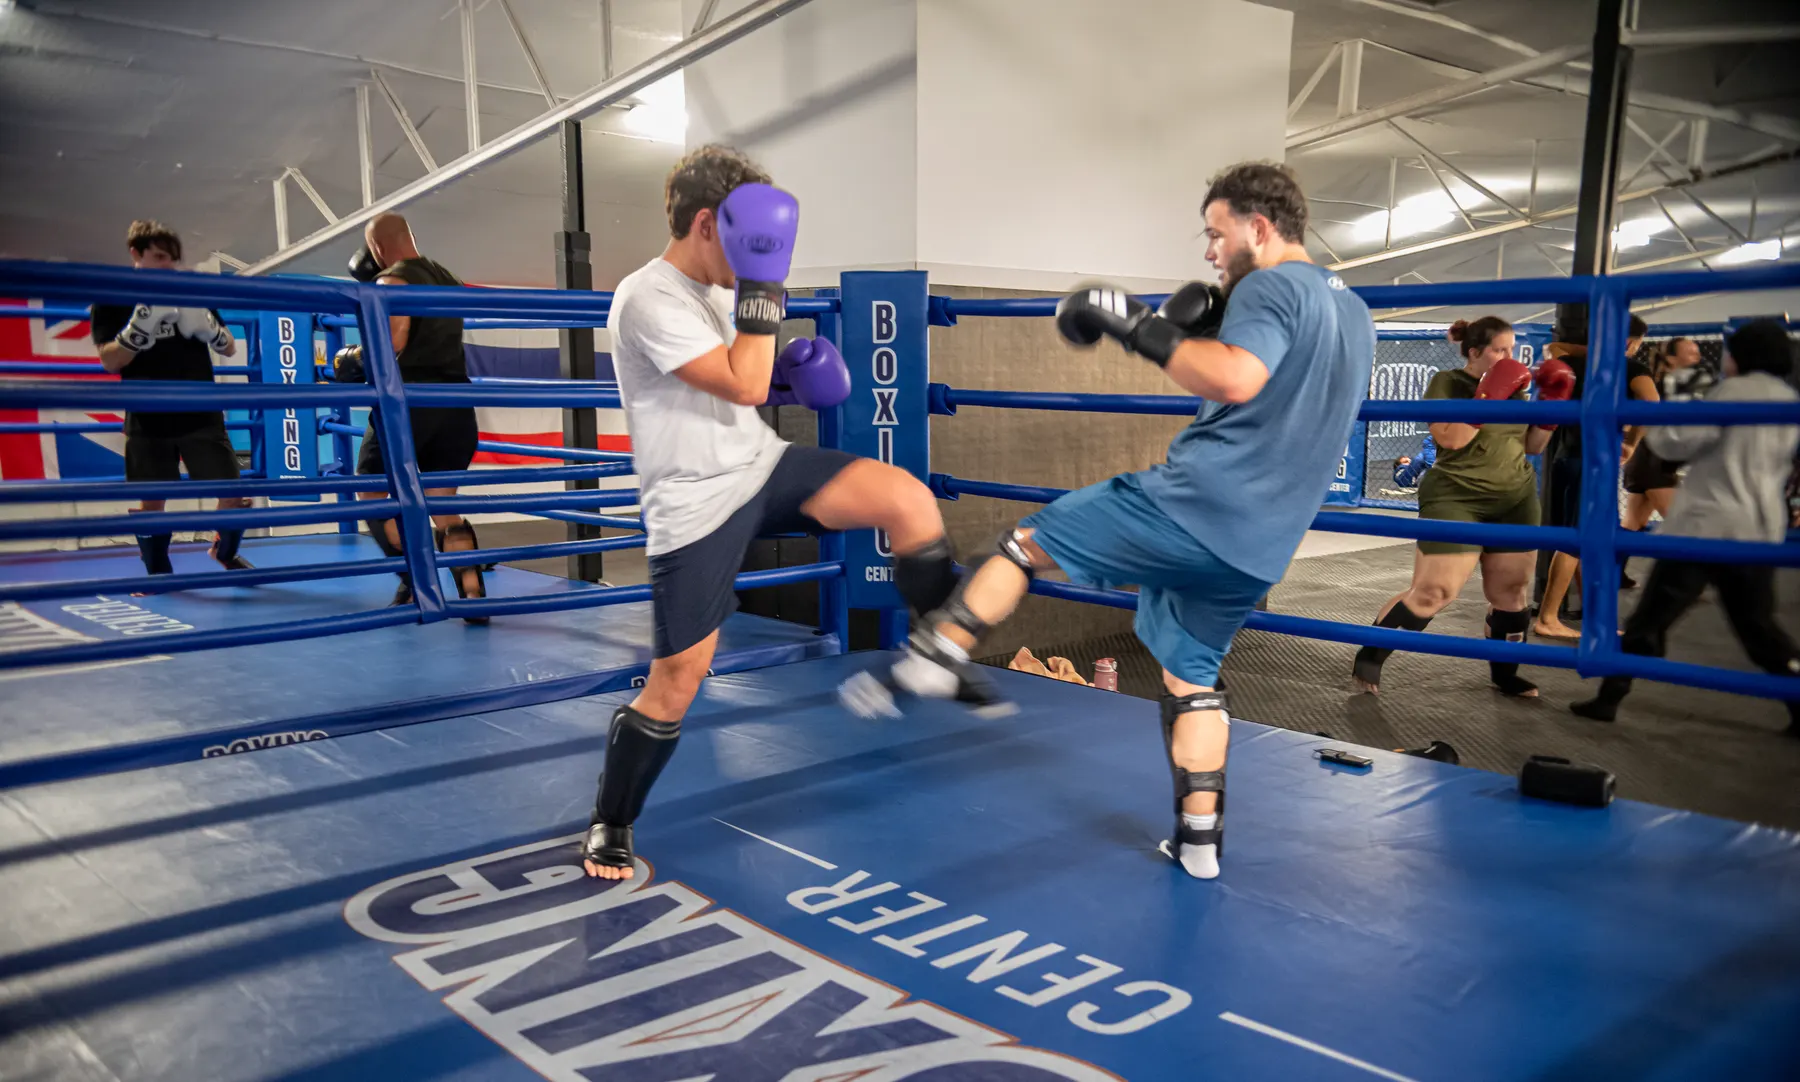
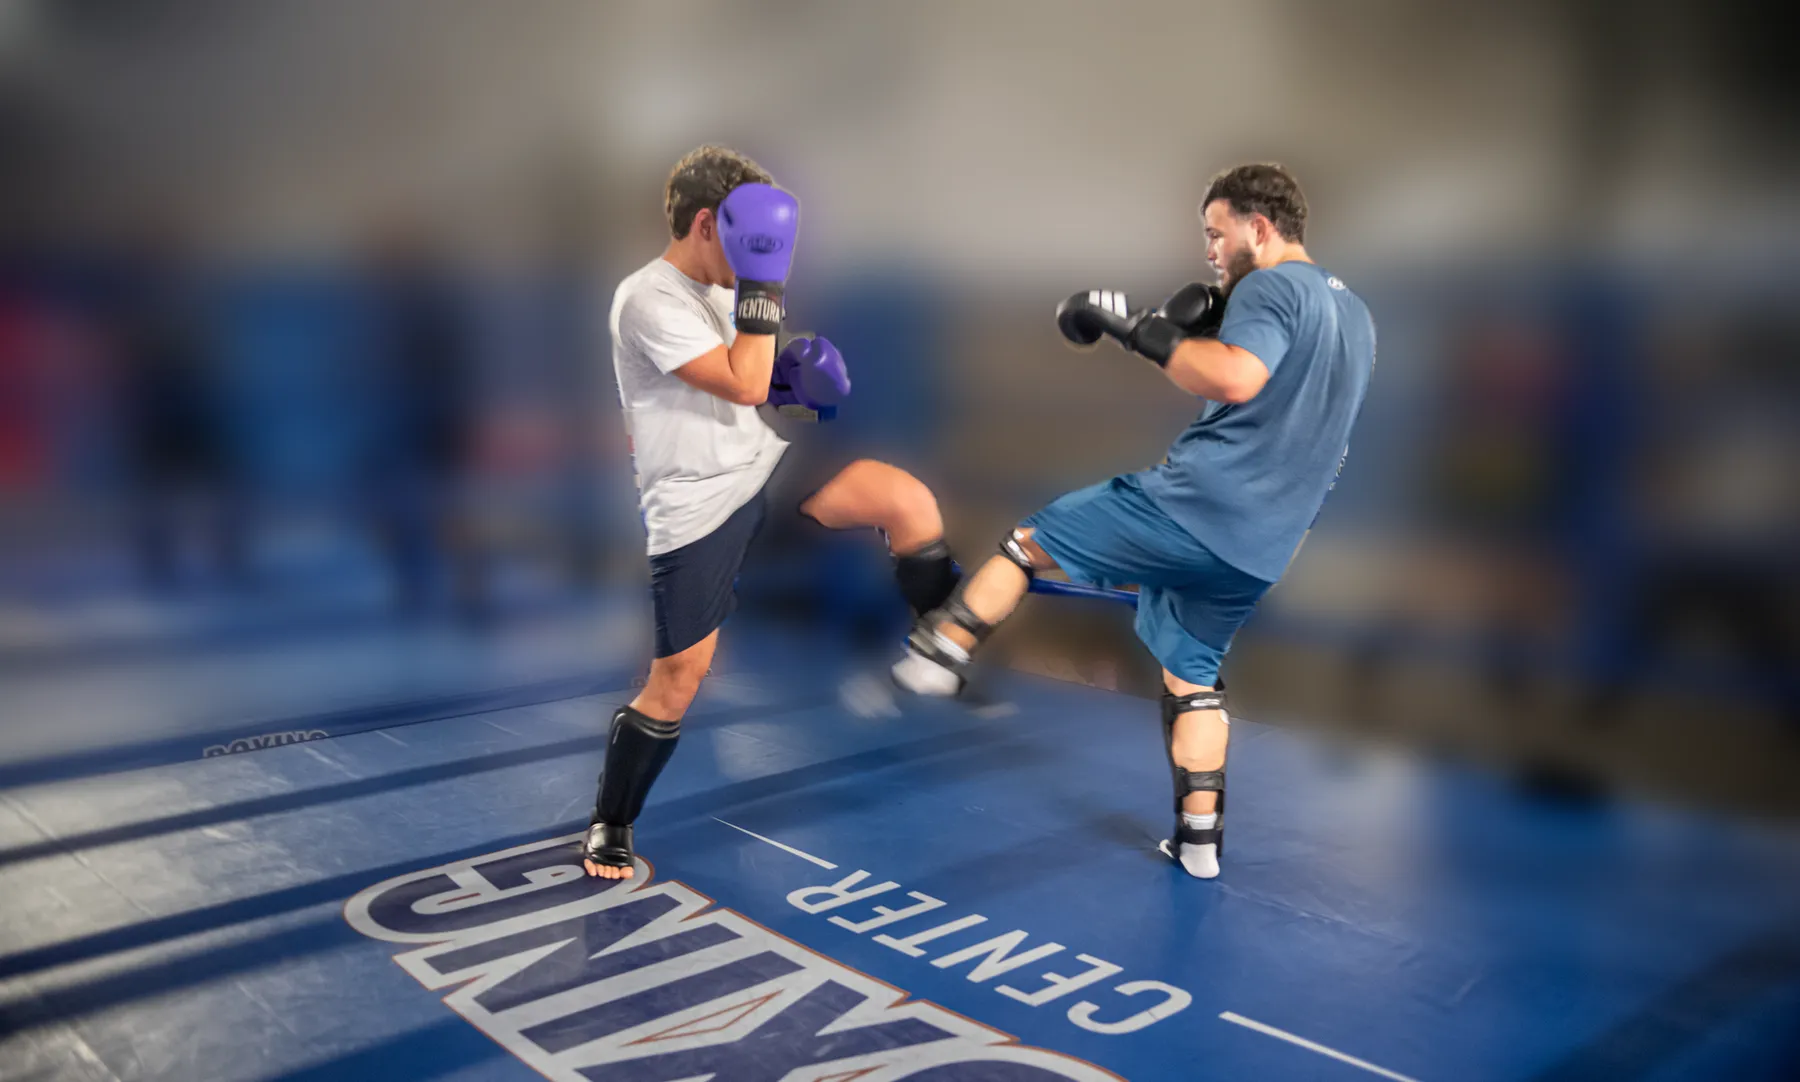
Trophy 20 : arriere-plan floute sur la photo de sparring pieds-poings, legendes de galerie corrigees
- Photo du ring : seuls les deux combattants restent nets, les autres adherents disparaissent dans une profondeur de champ
- Legendes de la galerie : le rond « + » de gala.css se melangeait a la legende (mots un par ligne, pastille rouge) ; corrige pour toutes les vignettes

diff --git a/index.html b/index.html
@@ -137,7 +137,7 @@ html,body{overflow-x:hidden}
 </style>
 <link rel="stylesheet" href="poster.css?v=8">
 <link rel="stylesheet" href="gala.css?v=4">
-<link rel="stylesheet" href="night.css?v=12">
+<link rel="stylesheet" href="night.css?v=14">
 <link rel="icon" type="image/png" href="image/logo_boxing_center.png">
 <meta name="description" content="Boxing Trophy 20 — la coupe de gala du Boxing Center. Samedi 12 décembre 2026 dès 19h au garage Moteka, Fenouillet. Boxe anglaise et pied-poing. Place public 10 €.">
 <meta name="theme-color" content="#05060b">
@@ -347,7 +347,7 @@ html,body{overflow-x:hidden}
         </div>
       </article>
       <article class="vs-side vs-blue">
-        <img src="image/night/eu-ring-kick-1800.webp" srcset="image/night/eu-ring-kick-900.webp 900w, image/night/eu-ring-kick-1800.webp 1800w" sizes="(max-width: 760px) 100vw, 55vw" alt="Deux adhérents en sparring pieds-poings sur le ring du Boxing Center, protège-tibias aux jambes, logo du club sur le tapis" loading="lazy">
+        <img src="image/night/eu-ring-kick-1800.webp?v=2" srcset="image/night/eu-ring-kick-900.webp?v=2 900w, image/night/eu-ring-kick-1800.webp?v=2 1800w" sizes="(max-width: 760px) 100vw, 55vw" alt="Deux adhérents en sparring pieds-poings sur le ring du Boxing Center, protège-tibias aux jambes, logo du club sur le tapis" loading="lazy">
         <div class="vs-copy">
           <span class="vs-k">Discipline 02 · Coin bleu</span>
           <h3>Pieds-poings</h3>
@@ -439,7 +439,7 @@ html,body{overflow-x:hidden}
         <button class="g-item m-item m-blue" type="button" data-full="image/night/t-blue-close-1800.webp" data-cap="Trophy · regard" aria-label="Agrandir : regard"><img src="image/night/t-blue-close-900.webp" srcset="image/night/t-blue-close-900.webp 900w, image/night/t-blue-close-1800.webp 1800w" sizes="(max-width: 760px) 100vw, 60vw" alt="Boxeur au casque bleu, regard fixé sur l'adversaire" loading="lazy"></button>
         <button class="g-item m-item" type="button" data-full="image/night/t-block-1800.webp" data-cap="Trophy · la parade" aria-label="Agrandir : la parade"><img src="image/night/t-block-900.webp" srcset="image/night/t-block-900.webp 900w, image/night/t-block-1800.webp 1800w" sizes="(max-width: 760px) 100vw, 60vw" alt="Un boxeur au casque rouge pare un direct, l'arbitre derrière" loading="lazy"></button>
         <button class="g-item m-item m-blue" type="button" data-full="image/night/t-embrace-1800.webp" data-cap="Trophy · le respect" aria-label="Agrandir : le respect"><img src="image/night/t-embrace-900.webp" srcset="image/night/t-embrace-900.webp 900w, image/night/t-embrace-1800.webp 1800w" sizes="(max-width: 760px) 100vw, 60vw" alt="Casque rouge et casque bleu s'enlacent après le combat" loading="lazy"></button>
-        <button class="g-item m-item m-w12 m-blue" type="button" data-full="image/night/eu-ring-kick-1800.webp" data-cap="Pieds-poings · sparring sur le ring du club" aria-label="Agrandir : sparring sur le ring du club"><img src="image/night/eu-ring-kick-900.webp" srcset="image/night/eu-ring-kick-900.webp 900w, image/night/eu-ring-kick-1800.webp 1800w" sizes="(max-width: 760px) 100vw, 60vw" alt="Deux adhérents en sparring pieds-poings sur le ring du Boxing Center, logo du club sur le tapis" loading="lazy"></button>
+        <button class="g-item m-item m-w12 m-blue" type="button" data-full="image/night/eu-ring-kick-1800.webp?v=2" data-cap="Pieds-poings · sparring sur le ring du club" aria-label="Agrandir : sparring sur le ring du club"><img src="image/night/eu-ring-kick-900.webp?v=2" srcset="image/night/eu-ring-kick-900.webp?v=2 900w, image/night/eu-ring-kick-1800.webp?v=2 1800w" sizes="(max-width: 760px) 100vw, 60vw" alt="Deux adhérents en sparring pieds-poings sur le ring du Boxing Center, logo du club sur le tapis" loading="lazy"></button>
       </div>
       <p class="n-credit">Combats amateurs du Trophy au Boxing Center · Sparring pieds-poings : B.M.Photographie</p>
     </div>

diff --git a/night.css b/night.css
@@ -371,7 +371,7 @@ body { font-family: Barlow, Geist, system-ui, sans-serif; }
 .m-item img { width: 100%; height: 100%; object-fit: cover; display: block; filter: grayscale(1) contrast(1.2) brightness(.8); transition: transform 1.3s var(--n-ease), filter .9s; }
 .m-item::before { content: ""; position: absolute; inset: 0; z-index: 1; pointer-events: none; mix-blend-mode: color; opacity: .9; transition: opacity .9s; background: #e01424; }
 .m-item.m-blue::before { background: #1c5cff; }
-.m-item::after { content: attr(data-cap); position: absolute; left: 14px; bottom: 12px; right: 14px; z-index: 2; text-align: left; font: 700 italic 13px/1.2 "Barlow Condensed", sans-serif; letter-spacing: .16em; text-transform: uppercase; color: #fff; opacity: 0; transform: translateY(8px); transition: opacity .5s, transform .6s var(--n-ease); text-shadow: 0 2px 12px rgba(0, 0, 0, .9); }
+.m-item::after { content: attr(data-cap); position: absolute; left: 14px; bottom: 12px; right: auto; width: calc(100% - 28px); height: auto; border-radius: 0; background: none; display: block; z-index: 2; text-align: left; font: 700 italic 13px/1.2 "Barlow Condensed", sans-serif; letter-spacing: .16em; text-transform: uppercase; color: #fff; opacity: 0; transform: translateY(8px); transition: opacity .5s, transform .6s var(--n-ease); text-shadow: 0 2px 12px rgba(0, 0, 0, .9); }
 .m-item:hover img, .m-item:focus-visible img, .m-item.is-on img { filter: none; transform: scale(1.04); }
 .m-item:hover::before, .m-item:focus-visible::before, .m-item.is-on::before { opacity: 0; }
 .m-item:hover::after, .m-item:focus-visible::after, .m-item.is-on::after { opacity: 1; transform: none; }
